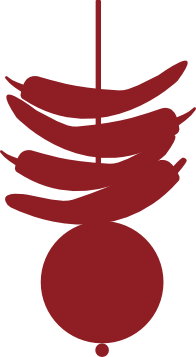
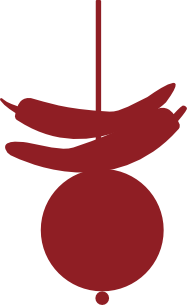
Replace v3b's tree and chillies with the branch and new chillies
Aiburo Bhaat now carries a single leafy branch in place of the tree,
and Mapusa's chillies are the two-chilli version. Each box is resized
to its new artwork so the dots stay over the motifs' middles.

Claude-Session: https://claude.ai/code/session_01M927iqGqXpH2N1bkdGR9p5

Changed region(s): [[0.0, 0.0, 1.0, 1.0]]

diff --git a/design/schedule-card/v3b.html b/design/schedule-card/v3b.html
@@ -121,7 +121,7 @@
       <div class="event">
         <div class="marker">
           <span class="dot"></span>
-          <span class="motif" style="width:68px;-webkit-mask-image:url('motifs/chillies.png')"></span>
+          <span class="motif" style="width:76px;-webkit-mask-image:url('motifs/chillies.png')"></span>
         </div>
         <p class="time">3:30&ndash;6:00 PM</p>
         <h2 class="name">Mapusa in the Garden</h2>
@@ -131,7 +131,7 @@
       <div class="event">
         <div class="marker">
           <span class="dot"></span>
-          <span class="motif" style="width:149px;-webkit-mask-image:url('motifs/tree.png')"></span>
+          <span class="motif" style="width:91px;-webkit-mask-image:url('motifs/branch.png')"></span>
         </div>
         <p class="time">7:30 PM onwards</p>
         <h2 class="name">Aiburo Bhaat</h2>
